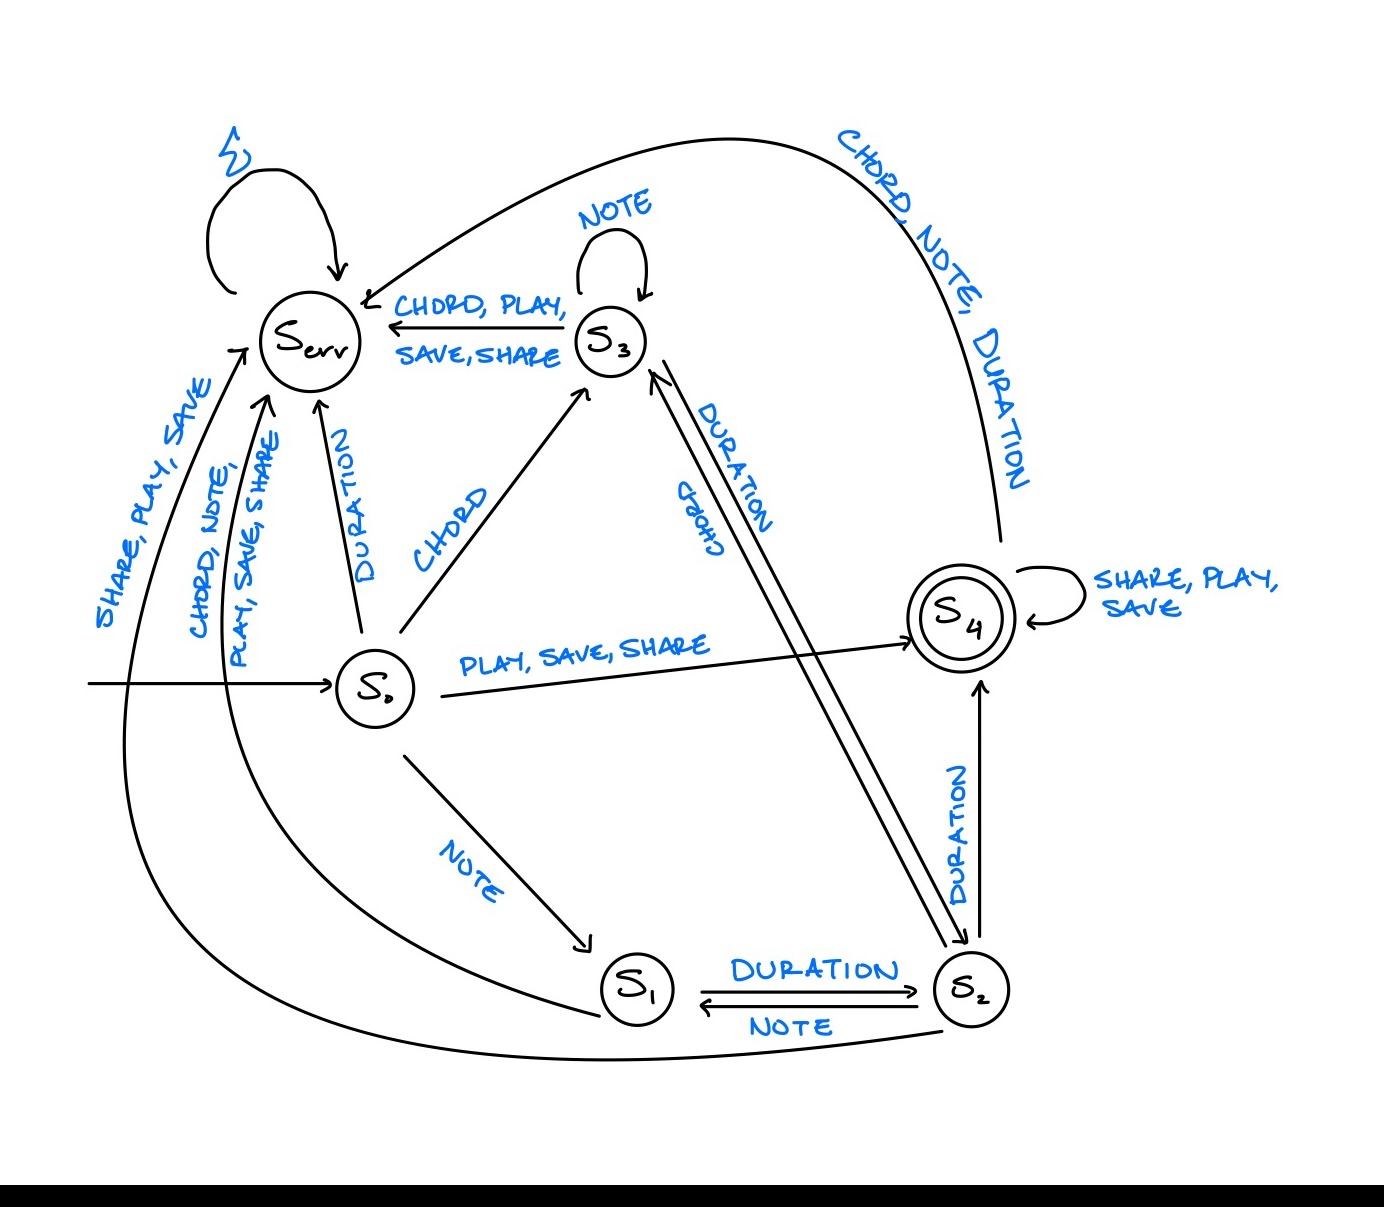
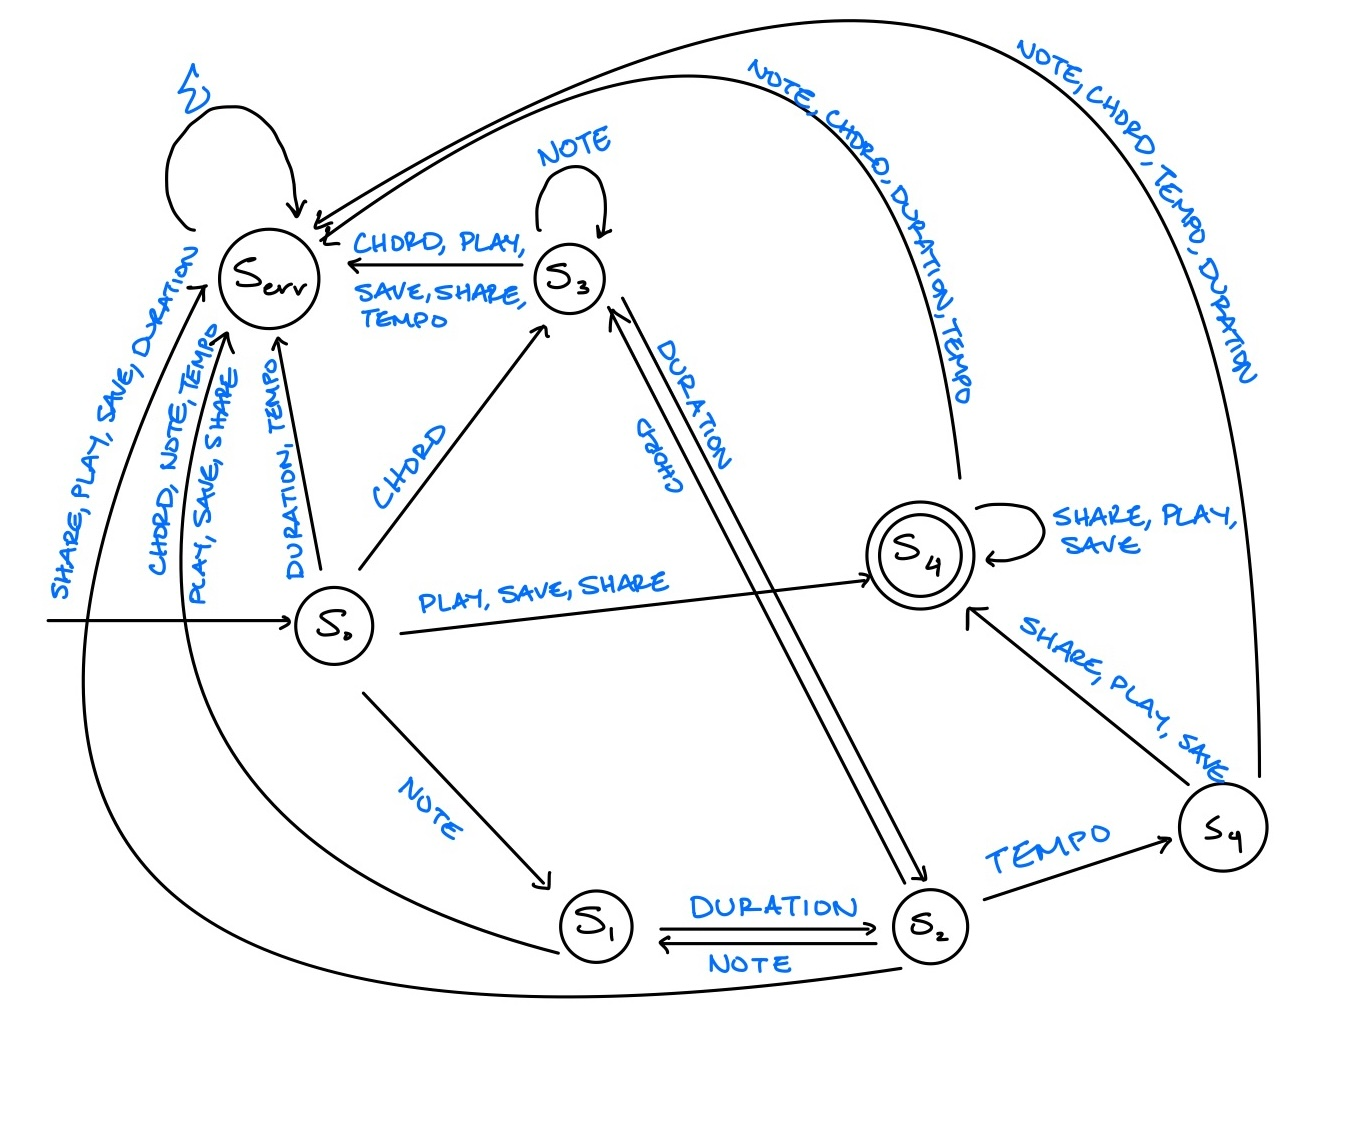
Updated Diagram with Tempo

diff --git a/README.md b/README.md
@@ -36,7 +36,7 @@ Use the following command to run the shell script that will execute the Python p
 
     ./script.sh '[input]'
     
-    ./script.sh 'chord (D3 C5) 0.75 A3 0.5 E5 1 150 play'
+    ./script.sh 'chord (D3 C5) 0.75 A3 0.5 E5 1.0 150 play'
 
 Make sure the shell script has execute permissions. If not, grant execute permissions using:
 
@@ -101,7 +101,7 @@ Note the following key valid token sequences:
 - Each sequence must terminate with a tempo.
 - The sequence may include multiple notes and durations, but must always adhere to the following rules:
     - Valid sequences:
-        - C4 0.5 D3 1 120
+        - C4 0.5 D3 1.0 120
         - (C4 D3) 0.5 120
     - Invalid sequences:
         - C4 : ends on a note without a duration or tempo
@@ -118,7 +118,7 @@ Note the following DFA diagram that illustrates the state transitions for this s
 - **Serr: REJECT** Invalid sequence of tokens.
 
 
-![alt text](./img/DFA_Diagram.jpg)
+![alt text](./img/DFA_Diagram.jpeg)
 
 
 ### Example State Transition 
